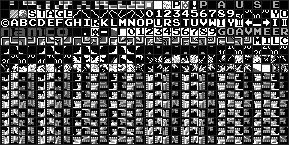
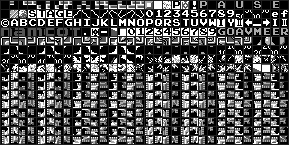
RE loop session 1: **Remove mapper-99 bank-switching from game.js.** **Done.** Removed STAGE_CHR_BANK[35], chrSheets[2], chrBankIdx, setCHRBank(), the chr_all_alt.png load path, and the setCHRBank(stageIdx) call in initLevel(). initCHR() now loads only tiles/chr_all.png. File header updated to refer

diff --git a/web/game.js b/web/game.js
@@ -2,7 +2,7 @@
 /* ================================================================
  * Battle City — Web Port  (v1)
  * RE reference commit: 973e914
- * ROM: VS. Battle City (1985)(Namco).nes  iNES mapper 99  32KB PRG  16KB CHR
+ * ROM: Battle City (1985)(Namco)[Famicom].nes  iNES mapper 0  32KB PRG  8KB CHR
  * All ROM addresses cited as // ROM $XXXX  label
  * ================================================================ */
 
@@ -17,9 +17,8 @@ const ctx     = canvas.getContext('2d');
 ctx.imageSmoothingEnabled = false;
 
 // ─── CHR tile engine ──────────────────────────────────────────────────────────
-// Tile sheets: tiles/chr_all.png (banks 0+1) + tiles/chr_all_alt.png (banks 2+3)
-// 512 tiles each in 32×16 grid, 9px cell (8px+1px border). Mapper 99 per-stage bank switch.
-// BG tile N: col=N%32 row=N/32   Sprite tile N: abs=N+256
+// Tile sheet: tiles/chr_all.png — single 8KB CHR ROM, 512 tiles in 32×16 grid.
+// 9px cell (8px+1px border). BG tile N: col=N%32 row=N/32; Sprite tile N: abs=N+256.
 const CHR_CELL = 9, CHR_BORDER = 1;
 
 
@@ -61,44 +60,19 @@ const tileCache = new Map();      // cached offscreen canvases keyed by "abs_pal
       NES_PAL[si][i] = NES_MASTER_HEX[ROM_PALETTE_DATA[si][i] & 0x3F];
 })();
 
-// Mapper 99 per-stage CHR bank select via StageFlagsTable ($80B6).
-// Bit 2: 1 -> banks 0+1 (default, index 0), 0 -> banks 2+3 (alt, index 1).
-// ROM $80B6: 04 04 04 00 04 04 04 04 04 00 00 04 00 00 2E 00 00 24 00 00 28 00 00 26 00 00 24 00 00 24 00 00 28 00 01
-// D2 bit: 1=banks 0+1 (default), 0=banks 2+3 (alt). All 35 stages listed.
-const STAGE_CHR_BANK = [0,0,0,1,0,0,0,0,0,1,1,0,1,1,0,1,1,0,1,1,1,1,1,0,1,1,0,1,1,0,1,1,1,1,1];
-
-const chrSheets = [null, null];   // [0]=default (banks 0+1), [1]=alt (banks 2+3)
-let chrBankIdx = 0;               // which bank pair is currently active
-
 function initCHR() {
-  const paths = ['tiles/chr_all.png', 'tiles/chr_all_alt.png'];
-  paths.forEach((src, idx) => {
-    const img = new Image();
-    img.src = src;
-    img.onload = () => {
-      const oc = document.createElement('canvas');
-      oc.width = img.width; oc.height = img.height;
-      const octx = oc.getContext('2d');
-      octx.imageSmoothingEnabled = false;
-      octx.drawImage(img, 0, 0);
-      chrSheets[idx] = octx;
-      // Activate default bank on first load
-      if (idx === chrBankIdx) {
-        chrOff = octx;
-        tileCache.clear();
-        render(); // Force redraw now that tiles are ready
-      }
-    };
-  });
-}
-
-function setCHRBank(stageIdx) {
-  const bankIdx = STAGE_CHR_BANK[stageIdx % STAGE_CHR_BANK.length];
-  if (bankIdx !== chrBankIdx || chrOff !== chrSheets[bankIdx]) {
-    chrBankIdx = bankIdx;
-    chrOff = chrSheets[bankIdx];
+  const img = new Image();
+  img.src = 'tiles/chr_all.png';
+  img.onload = () => {
+    const oc = document.createElement('canvas');
+    oc.width = img.width; oc.height = img.height;
+    const octx = oc.getContext('2d');
+    octx.imageSmoothingEnabled = false;
+    octx.drawImage(img, 0, 0);
+    chrOff = octx;
     tileCache.clear();
-  }
+    render();
+  };
 }
 
 // Draw one 8×8 CHR tile at NES pixel (destX, destY).
@@ -496,7 +470,6 @@ function setEagleWall(steel) {
 // ROM $C33D LevelStart  $C625 ClearKillTallies
 function initLevel(idx) {
   stageIdx          = idx % LEVEL_MAPS.length;  // ROM loops back to stage 1 after stage 35
-  setCHRBank(stageIdx);                         // Mapper 99: select CHR bank pair per stage
   frameCount        = 0;
   gamePhase         = 'start';
   phaseTimer        = 180;   // ~3 s stage-start banner  ROM $CFAA PreGameDraw
@@ -2463,7 +2436,7 @@ selectedStage = 0;
 newHiScorePlayer = 0;
 frameCount = 0;
 enterTitle();
-initCHR();     // load both CHR tile sheets (chr_all.png + chr_all_alt.png); setCHRBank() selects per stage
+initCHR();     // load single Famicom CHR ROM sheet (chr_all.png)
 
 // ROM $C402 GameFrame loop — requestAnimationFrame at 60 fps
 (function loop() {

diff --git a/web/catalog.html b/web/catalog.html
@@ -1,6 +1,7 @@
 <!DOCTYPE html>
 <html>
 <head>
+  <meta charset="utf-8">
   <title>Battle City — Metasprite Catalog</title>
   <style>
     body { background: #1a1a1a; color: #eee; font-family: monospace; padding: 20px; }
@@ -9,6 +10,7 @@
     .grid { display: grid; grid-template-columns: repeat(auto-fill, minmax(180px, 1fr)); gap: 20px; }
     .item { background: #2a2a2a; padding: 15px; border-radius: 4px; text-align: center; border: 1px solid #444; }
     .item.wide { grid-column: span 2; }
+    .item.full { grid-column: 1 / -1; }
     .item canvas { image-rendering: pixelated; background: #000; margin-bottom: 10px; border: 1px solid #111; }
     .label { font-size: 12px; color: #aaa; margin-top: 5px; }
     .controls { position: fixed; top: 20px; right: 20px; background: #333; padding: 15px; border-radius: 8px; border: 1px solid #f8e800; }
@@ -80,10 +82,10 @@
     [0x0F, 0x3C, 0x10, 0x12], // 1 BG1 — water
     [0x0F, 0x29, 0x09, 0x0B], // 2 BG2 — trees
     [0x0F, 0x00, 0x10, 0x20], // 3 BG3 — steel/ice
-    [0x0F, 0x18, 0x27, 0x38], // 4 SP0 — P1 yellow
-    [0x0F, 0x0A, 0x1B, 0x3B], // 5 SP1 — P2 green
-    [0x0F, 0x0C, 0x10, 0x20], // 6 SP2 — enemies/power-ups/shield
-    [0x0F, 0x04, 0x16, 0x20], // 7 SP3 — bonus tank/eagle/explosion
+    [0x0F, 0x18, 0x27, 0x38], // 4 SP0 — player tank / UI elements (dark-tan/yellow-tan/cream)
+    [0x0F, 0x0A, 0x1B, 0x3B], // 5 SP1 — text / digits (yellow/off-white/white)
+    [0x0F, 0x0C, 0x10, 0x20], // 6 SP2 — enemies / power-ups / shield (dark-green/dark-gray/light-gray)
+    [0x0F, 0x04, 0x16, 0x20], // 7 SP3 — eagle / explosion / bonus tank (dark-purple/med-purple/light-gray)
   ];
 
   let currentPal = [];
@@ -253,28 +255,36 @@
       { name: "DIGIT 7 ($37)",      pal: 0, tiles: [0x37], pt1: false, w:8, h:8 },
       { name: "DIGIT 8 ($38)",      pal: 0, tiles: [0x38], pt1: false, w:8, h:8 },
       { name: "DIGIT 9 ($39)",      pal: 0, tiles: [0x39], pt1: false, w:8, h:8 },
-      // BG tiles $60–$67 together spell "NAMCO" in thick block letters (8 tiles wide, 8px tall).
-      // ROM $D145 VictoryTileData: {$60..$68,$FF}; $68 is blank trailing space.
-      // Drawn at: victory screen (col 12, row 14) and stage-start pre-game (col 13, row 23).
-      { name: "NAMCO ($60–$68)", pal: 0, tiles: [0x60,0x61,0x62,0x63,0x64,0x65,0x66,0x67,0x68], pt1: false, w:72, h:8 },
-      // Score header nametable tiles. ROM $D15B: P1 icon $5E/$6B at col 2–3 row 3;
-      // $D167 HI label $48/$49 at col 11–12; $D15E P2 icon $5F at col 21 (2P only).
-      { name: "P1 ICON ($5E)",      pal: 0, tiles: [0x5E], pt1: false, w:8, h:8 },
-      { name: "P2 ICON ($5F)",      pal: 0, tiles: [0x5F], pt1: false, w:8, h:8 },
+      // BG tiles $41–$5A = A–Z uppercase alphabet (p0=p1, solid white glyphs, ASCII-mapped: $41='A').
+      // Used by PPUQueueTiles ($D6D3) for all on-screen text strings (title, HUD, menus).
+      { name: "A–Z ($41–$5A)", pal: 0, tiles: [0x41,0x42,0x43,0x44,0x45,0x46,0x47,0x48,0x49,0x4A,0x4B,0x4C,0x4D,0x4E,0x4F,0x50,0x51,0x52,0x53,0x54,0x55,0x56,0x57,0x58,0x59,0x5A], pt1: false, w:208, h:8 },
+      // BG tiles $60–$68 = NAMCOT logo (9 tiles, monochrome pixel-art, plane-1=0 / color-1 only).
+      // Letter layout: N=$60-$61, A=$62, M=$63-$64, C=$65, O=$66, T=$67-$68 (N/M/T are 2-tile wide).
+      // ROM $D145 VictoryTileData: {$60..$68,$FF}.
+      // Drawn as one 9-tile BG row: title screen ($D28F), victory screen (col 12 row 14), stage-start (col 13 row 23).
+      { name: "NAMCOT ($60–$68)", pal: 0, tiles: [0x60,0x61,0x62,0x63,0x64,0x65,0x66,0x67,0x68], pt1: false, w:72, h:8 },
+      // Score header nametable tiles. ROM $D15B: Roman-I $5E + dash $6B at col 2–3 row 3;
+      // $D167 HI label $48/$49 at col 11–12; $D15E Roman-II $5F at col 21 (2P only).
+      // $5E = Roman numeral "I" (Serif capital I, player-1 selector; used in "I-PLAYER" $D2D9).
+      // $5F = Roman numeral "II" (Two vertical bars, player-2 selector; used in "II-PLAYER" $D2E2).
+      { name: "ROMAN \"I\" ($5E)",  pal: 0, tiles: [0x5E], pt1: false, w:8, h:8 },
+      { name: "ROMAN \"II\" ($5F)", pal: 0, tiles: [0x5F], pt1: false, w:8, h:8 },
       { name: "HI 'H' ($48)",       pal: 0, tiles: [0x48], pt1: false, w:8, h:8 },
       { name: "HI 'I' ($49)",       pal: 0, tiles: [0x49], pt1: false, w:8, h:8 },
       // Score separator / col marker tile. ROM $D162/$D165.
       { name: "SEPARATOR ($13)",    pal: 0, tiles: [0x13], pt1: false, w:8, h:8 },
       // Copyright symbol tile. ROM $D1E5 copyright string "©1980 1985 NAMCO LTD".
       { name: "© ($40)",            pal: 0, tiles: [0x40], pt1: false, w:8, h:8 },
-      // End-of-level tally screen tiles. ROM $D271 (brackets) / $D27D (8-tile separator row).
-      { name: "'[' ($5B)",          pal: 0, tiles: [0x5B], pt1: false, w:8, h:8 },
-      { name: "DASH LINE ($5C)",    pal: 0, tiles: [0x5C], pt1: false, w:8, h:8 },
-      { name: "']' ($5D)",          pal: 0, tiles: [0x5D], pt1: false, w:8, h:8 },
-      // Decorative tail glyph. ROM $D1FC (copyright string) / $D2BD (victory "AN END" string).
-      { name: "TAIL ($69)",         pal: 0, tiles: [0x69], pt1: false, w:8, h:8 },
-      // Blank spacer used in score-header text strings. ROM $D15C/$D15F/$D169.
-      { name: "SPACER ($6B)",       pal: 0, tiles: [0x6B], pt1: false, w:8, h:8 },
+      // $5B = selection cursor (diamond/chevron pointer glyph). $5C = horizontal rule (two full-width bars).
+      // $5D = right-pointing arrow → (chevron glyph). Used on tally/result screens.
+      { name: "CURSOR ($5B)",       pal: 0, tiles: [0x5B], pt1: false, w:8, h:8 },
+      { name: "HORIZ RULE ($5C)",   pal: 0, tiles: [0x5C], pt1: false, w:8, h:8 },
+      { name: "ARROW → ($5D)",      pal: 0, tiles: [0x5D], pt1: false, w:8, h:8 },
+      // $69 = period/dot (2-pixel mark). Used after "NAMCO LTD" in copyright string ($D30D).
+      { name: "PERIOD ($69)",       pal: 0, tiles: [0x69], pt1: false, w:8, h:8 },
+      // $6B = dash "–" character (two centered horizontal bars, p0=p1=$7E).
+      // Used in "HI-SCORE", "I-PLAYER", "II-PLAYER" strings.
+      { name: "DASH \"–\" ($6B)",   pal: 0, tiles: [0x6B], pt1: false, w:8, h:8 },
     ],
 
     // --- ANIMATIONS ---
@@ -350,7 +360,8 @@
     const container = document.getElementById(id);
     list.forEach(item => {
       const div = document.createElement('div');
-      div.className = (item.w || 16) > 16 ? 'item wide' : 'item';
+      const iw = item.w || 16;
+      div.className = iw > 64 ? 'item full' : iw > 16 ? 'item wide' : 'item';
 
       const canvas = document.createElement('canvas');
       canvas.width  = (item.w || 16) * SCALE;

diff --git a/REVERSE.md b/REVERSE.md
@@ -682,3 +682,20 @@ Bullet fired by `FireBullet` ($E08C): $CC,X = $40 | dir; $B8,X = X+dX×8; $C2,X 
 - [x] Locate high score save/load logic. **Done.** Score arrays at $15–$1B (P1), $1D–$23 (P2), $3D–$43 (hi-score). Routines: SetupScoreDigits ($D9E1, BCD byte→scratch $35–$3B), AddScoreDigits ($D9BE, scratch→player score with decimal carry), UpdateHiScore ($D97D, compare P1/P2 to $3D on game-over), DrawHiScore ($D951, draw $3D buffer). Enemy kill scores: BCD $10/$20/$30/$40 = 100/200/300/400 pts from EnemyScoreTable ($E8BA/$D3D1). Shovel=500pts, 2P-winner bonus=1000pts. Hi-score zeroed at first boot ($94C1), persists across soft-resets in RAM (no SRAM/battery).
 - [x] Identify palette data location and format. **Done.** Two palette data blocks: SpritePaletteData ($D555–$D564, 16B fixed, 4 sub-palettes → PPU $3F10-$3F1F via SpritePaletteInit at $D53E) and BGPaletteTable ($D565–$D5F4, 9×16B, indexed by $4D → PPU $3F00-$3F0F via PaletteUpdate at $D50E). $4D is both the palette set index (0-8) and the "update needed" flag (bit7=0 → update on next NMI; $FF = done). Sets 0-2 = in-game variants, 3 = player-select/game-over, 4 = title animation, 5-8 = flash animation (loop at $8486 cycles $4D=($0B&3)+5). WaitVBlank2 ($D5F5) is a 6-byte routine just after the table. NES palette entries use format $XY where X=brightness, Y=hue.
 - [x] Understand GameTickMain subsystems ($E181, $E1FA, $E02E, $E2A9, $E27C, $E122, $E162, $DB0B, $C7C8) — bullet/collision/explosion/score logic. **Done.** 18 subsystems fully mapped: EntityTileRead($E181), EntityTileRestore($E1FA), BulletStateMachine($E02E), ShovelEagleTick($E2A9), InvincibilityTick($E27C), PlayerFireTick($E122), EnemyFireTick($E162), BulletTerrainCollision($E604), BulletBulletCollision($E910), EnemyBulletPlayerCollision($E70C), PowerupCollectTick($E972), ShovelAnimTick($C972), PlayerActiveCheck($DB0B), LivesDisplayTick($C7C8), PaletteFlashTick($C31D). Bullet arrays at $B8/$C2 (pos), $CC (state: 0/active$40/impact$33/explosion$60), $D6 (power 0/1/3). SFX flags at $030B-$030D/$030F. FireBullet at $E08C, BulletHitCheck at $E693, PRNG at $D44D.
+
+### Web game update: VS System → Famicom
+
+game.js was originally built from VS System RE (mapper 99, 32KB PRG, 16KB CHR with 2 banks, 40 stages).
+The active ROM is now Famicom (mapper 0 NROM, 16KB PRG mirrored, 8KB CHR single bank, 35 stages).
+The following tasks update web/game.js to match the Famicom ROM findings in catalog.html and REVERSE.md.
+
+- [x] **Remove mapper-99 bank-switching from game.js.** **Done.** Removed STAGE_CHR_BANK[35], chrSheets[2], chrBankIdx, setCHRBank(), the chr_all_alt.png load path, and the setCHRBank(stageIdx) call in initLevel(). initCHR() now loads only tiles/chr_all.png. File header updated to reference Famicom mapper-0 ROM.
+- [ ] **Decode all 9 Famicom BGPaletteTable sets** ($D565–$D5F4, 9×16 bytes). Disassemble with `python dis.py C D565 9` and dump each 16-byte block. We know set 0 (in-game) from SpritePaletteData. Need sets 1/2 (in-game variants, PaletteFlashTick cycles between them), 3 (player-select/game-over), 4 (title animation), 5-8 (grenade/shovel flash). Update game.js NES_PAL construction to use correct per-screen palettes instead of hardcoded set 0 everywhere.
+- [ ] **Fix HUD palette: BG0 (palIdx 0) not BG3.** Famicom nametable attribute byte for HUD cols 28-31 and the border area is $00 → BG palette 0 ([0x0F,0x17,0x06,0x00]). game.js currently uses palIdx=3 for enemy icons ($6A), life-tank icons ($14), "IP"/"IIP" labels, stage flag tiles, stage number, and border $FC tiles. Change all HUD and border drawCHRTile/drawNesText calls to palIdx=0.
+- [ ] **Verify Famicom enemy-type-per-stage table.** game.js ENEMY_TYPE_TABLE (35×20 array) was derived from VS ROM data. Famicom enemy composition table is at $E4EC (REVERSE.md: "$E4EC[(stage-1)×4+$8F]" with $8B-$8E counts). Disassemble $E4EC + preceding count table; dump 35×4 count entries and reconstruct the 35×20 per-enemy-slot type sequence. Compare to game.js and update if different.
+- [ ] **Verify Famicom spawn-delay formula.** game.js uses `spawnDelay = max(50, 190 - stageIdx*4)` and `SpawnDelayBase = $BE - stage×4`. Confirm from Famicom ROM: $C331 area sets $82 (SpawnDelayBase). Check base value ($BE=190) and per-stage decrement. Also confirm max 4 enemies on screen (VS may have had different cap).
+- [ ] **Verify Famicom eagle-wall geometry** (EAGLE_WALL in game.js). Famicom BrickWallInit at $C912; disassemble to confirm the 5-cell Π-shape (rows 11-12, cols 5-7) and brickBits masks. Cross-check against catalog.html terrain section which shows the correct brick partial types.
+- [ ] **Decode Famicom title-screen nametable** from string table at $D280–$D345 (17 FF-terminated rows). game.js drawTitleScreen() uses approximations. Disassemble $D16A SetupNametableStage to get exact col/row positions and tile sequences for: score strip (row 3), "BATTLE"/"CITY" big-text (rows 6/11), menu items, copyright line. Update drawTitleScreen() to match exactly.
+- [ ] **Decode Famicom stage-clear tally screen** nametable from $CAF1 StageClearTallyScreen / $CD04 TallyScreenInit. Verify exact col/row positions used in drawStageClear() against Famicom ROM. Confirm tile $5B is the arrow/cursor glyph (not bracket), $5C is horizontal rule.
+- [ ] **Verify Famicom water-animation palette cycling.** PaletteFlashTick ($C31D) cycles $4D between sets 1 and 2 every 64 frames. Decode sets 1 and 2 from BGPaletteTable to get the two BG1 color pairs for the water tile animation. Update tickPaletteFlash() in game.js with the exact NES color indices.
+- [ ] **Update all ROM address comments in game.js** from VS System addresses to Famicom addresses. Most function addresses cited (e.g. $E181, $E604, $DB79, $F07A, etc.) are Famicom addresses already confirmed in REVERSE.md — audit the full file for any VS-only addresses that have no Famicom equivalent.